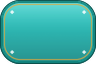
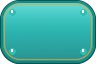
chrome: studs on the big plates, and carve the board's tiles
Two ornament passes in the same language as the icon:

- The 96 dp button plates gain a turquoise stud in each corner, so a booster square and a wide button
  carry the same inlay as the cards. The small plates (48 dp, 6 dp nine-slice border) deliberately do
  not: anything drawn that deep lands in the stretched strip and smears. Same reason the pills and
  chips stay plain — a turquoise inlay was tried on them and never survived being used at 24-30 dp.
- The board's cell is now a carved well: deeper field, a faint octagon cut inside the square, and the
  gold corner dashes removed. At 36 dp those dashes read as stitching round every stone.

diff --git a/godot-port/tools/make_ui_art.py b/godot-port/tools/make_ui_art.py
@@ -20,6 +20,7 @@ Deterministic: the grain uses a fixed seed, so the same bytes come out on every 
 
 from __future__ import annotations
 
+import math
 import os
 
 from PIL import Image, ImageChops, ImageDraw, ImageFilter
@@ -282,13 +283,16 @@ def main():
           inlay=ACCENT, studs=True)
     plate("ui_panel_raised", (96, 96), 22, RAISED, BORDER, rim_colour=GOLD, gloss=0.55, marks=GOLD,
           inlay=ACCENT, studs=True)
-    plate("ui_button", (96, 64), 20, RAISED, BORDER, rim_colour=GOLD, gloss=0.55)
+    plate("ui_button", (96, 64), 20, RAISED, BORDER, rim_colour=GOLD, gloss=0.55, studs=True)
     plate("ui_button_gold", (96, 64), 20, GOLD, GOLD_DARK, rim_colour=GOLD_LIGHT, gloss=0.65,
-          marks=WHITE)
+          marks=WHITE, studs=True)
     plate("ui_button_accent", (96, 64), 20, ACCENT, ACCENT_DARK, rim_colour=GOLD, gloss=0.65,
-          marks=WHITE)
+          marks=WHITE, studs=True)
     plate("ui_button_danger", (96, 64), 20, DANGER, DANGER_DARK, rim_colour=GOLD_LIGHT, gloss=0.65,
-          marks=WHITE)
+          marks=WHITE, studs=True)
+    # A pill and a chip are used at 24-30 dp, where their nine-slice border is 6: anything drawn
+    # deeper than that lands in the stretched strip and smears, so they stay plain and rely on
+    # the gold rim. (Tried a turquoise inlay here; it never survived the scaling.)
     plate("ui_pill", (72, 44), 22, RAISED, BORDER, rim_colour=GOLD, gloss=0.55)
     plate("ui_chip", (64, 32), 16, RAISED, BORDER, rim_colour=GOLD, gloss=0.5)
     plate("ui_slot", (72, 72), 16, SURFACE, BORDER, rim_colour=None, gloss=0.35, marks=BORDER)
@@ -311,13 +315,22 @@ def main():
     tray = hairline(tray, 18, GOLD, inset=6, alpha=90)
     save(tray, "ui_board_tray")
 
-    # The board's tile: a carved square the gem sits in, with a gold rim and a dark well.
-    tile = gradient((72, 72), 14, [(0.0, _scale(SURFACE, 1.45)), (0.5, SURFACE), (1.0, _scale(BG, 1.2))])
-    tile = bevel(tile, 14, top_alpha=120, bottom_alpha=150)
+    # The board's tile: a carved well the gem sits in. The corner dashes are gone — on a 36 dp cell
+    # they read as stitching round every stone — and the well is deeper so five colours of gem are the
+    # brightest thing on the board.
+    tile = gradient((72, 72), 14, [(0.0, (34, 58, 96)), (0.55, (22, 40, 70)), (1.0, (13, 24, 44))])
+    tile = bevel(tile, 14, top_alpha=150, bottom_alpha=120)
     tile = grain(tile, strength=6)
-    tile = rim(tile, 14, (58, 96, 140), width=2)
-    tile = hairline(tile, 14, GOLD, inset=4, alpha=110)
-    tile = corner_marks(tile, 14, GOLD, inset=5, size=2, alpha=150)
+    tile = rim(tile, 14, (52, 86, 128), width=2)
+    tile = hairline(tile, 14, GOLD, inset=4, alpha=80)
+    # An octagon cut inside the square: the facet a real inlay tile has, faint enough to stay quiet.
+    octagon = ImageDraw.Draw(tile, "RGBA")
+    inset = 9.0
+    points = []
+    for index in range(8):
+        angle = math.pi / 8 + index * math.pi / 4
+        points.append((36 + math.cos(angle) * (36 - inset), 36 + math.sin(angle) * (36 - inset)))
+    octagon.line(points + [points[0]], fill=(236, 210, 150, 46), width=2, joint="curve")
     save(tile, "ui_tile_frame")
 
     # The switch: a track the knob slides in, and a knob that is a knob.
